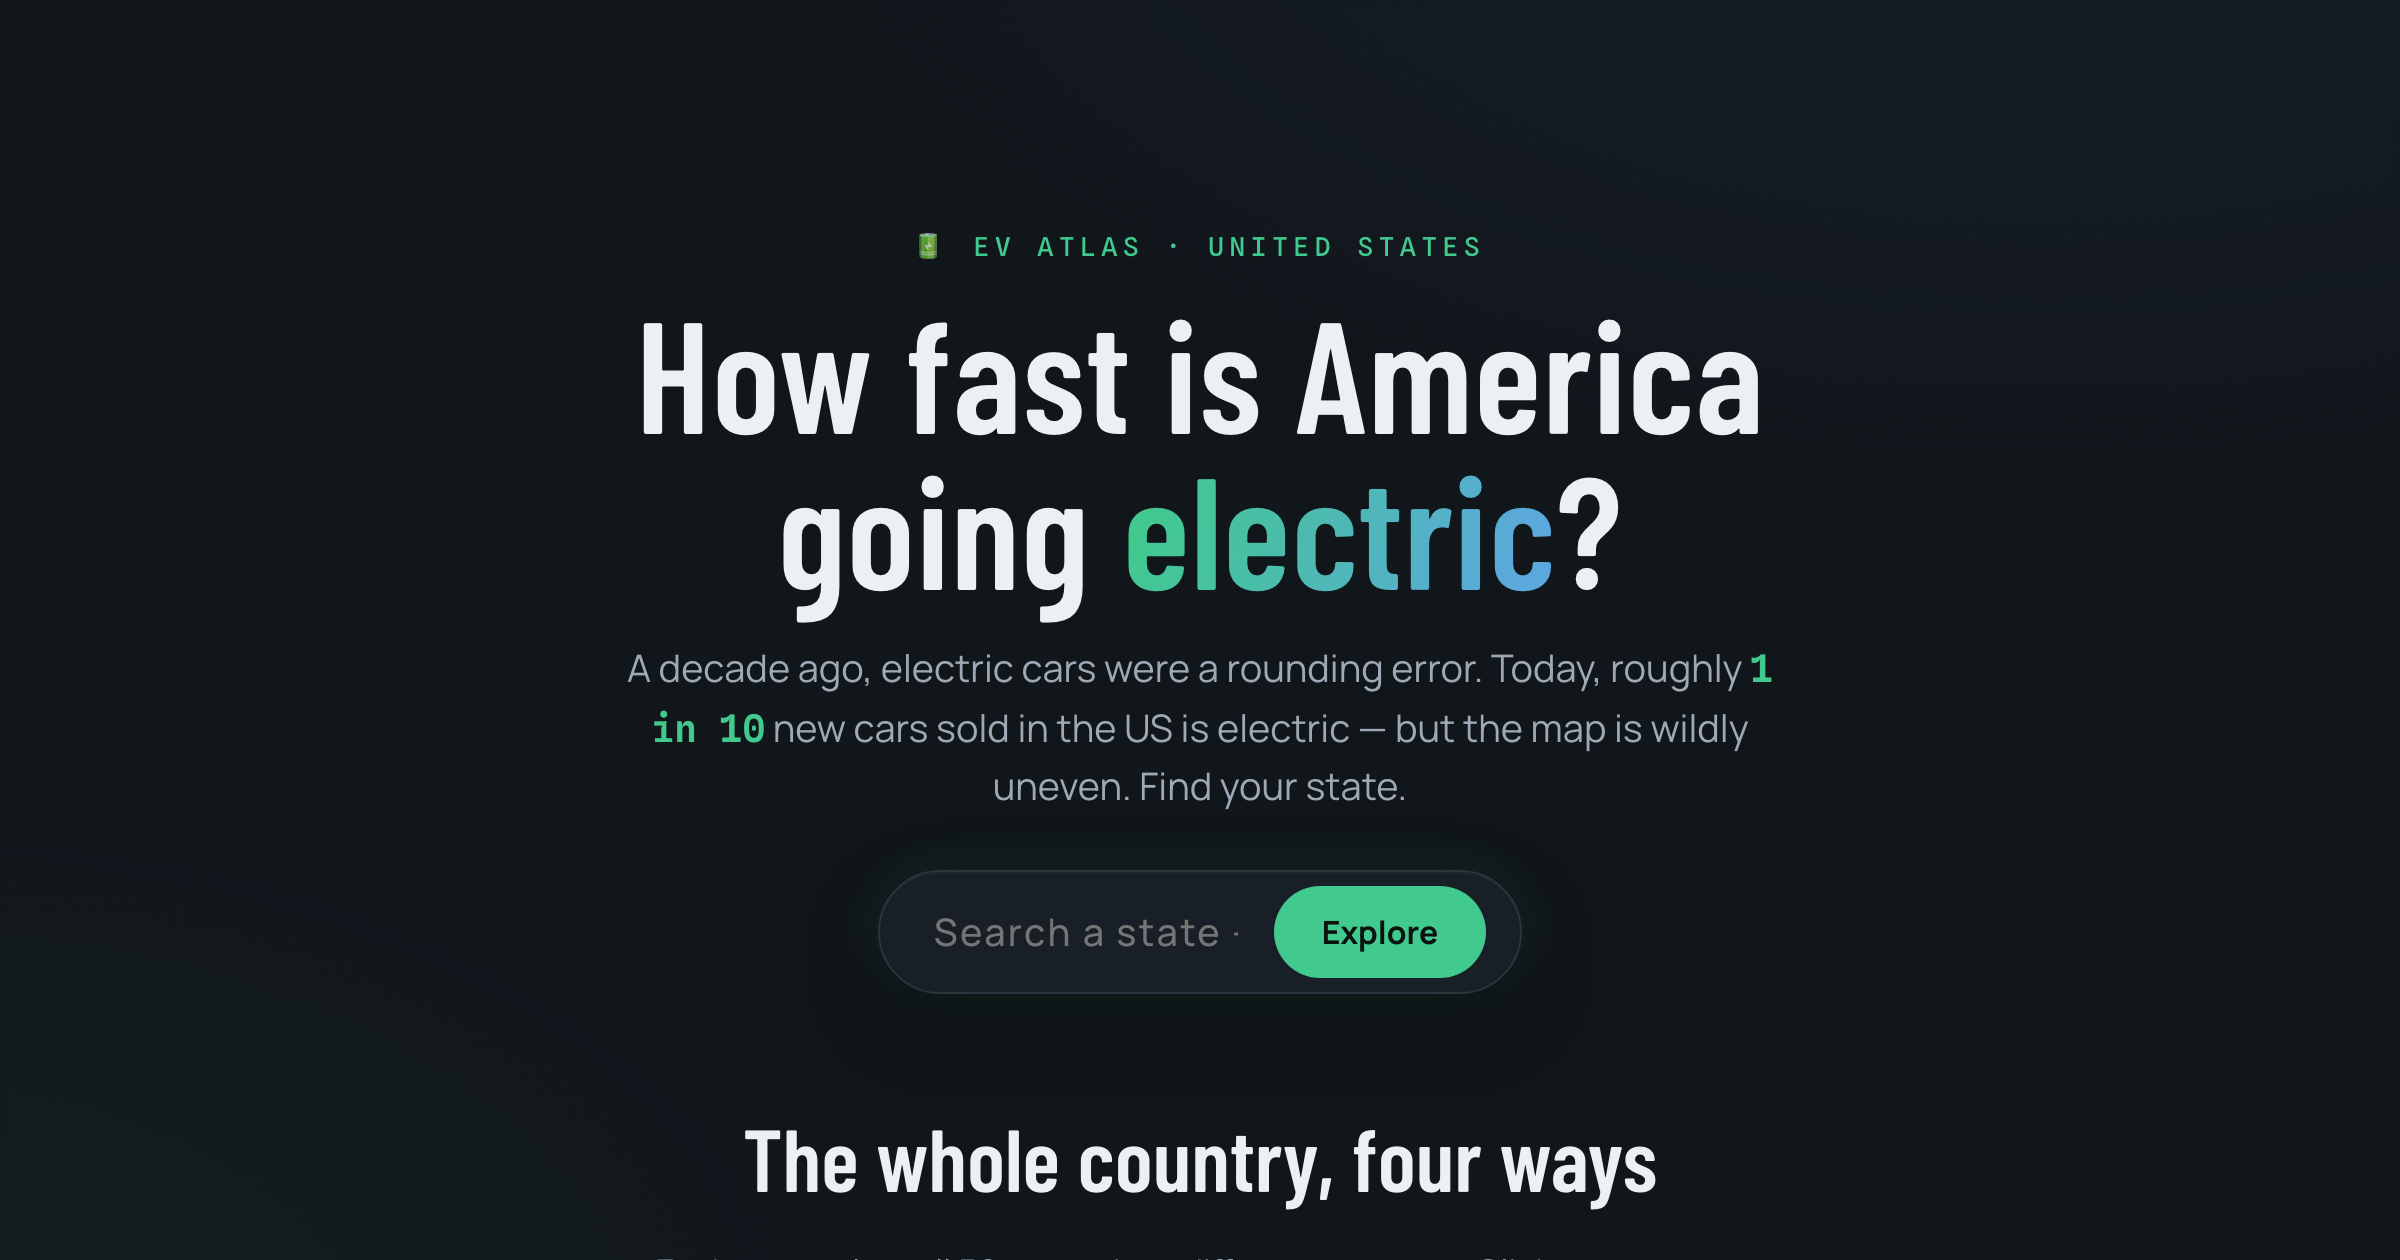
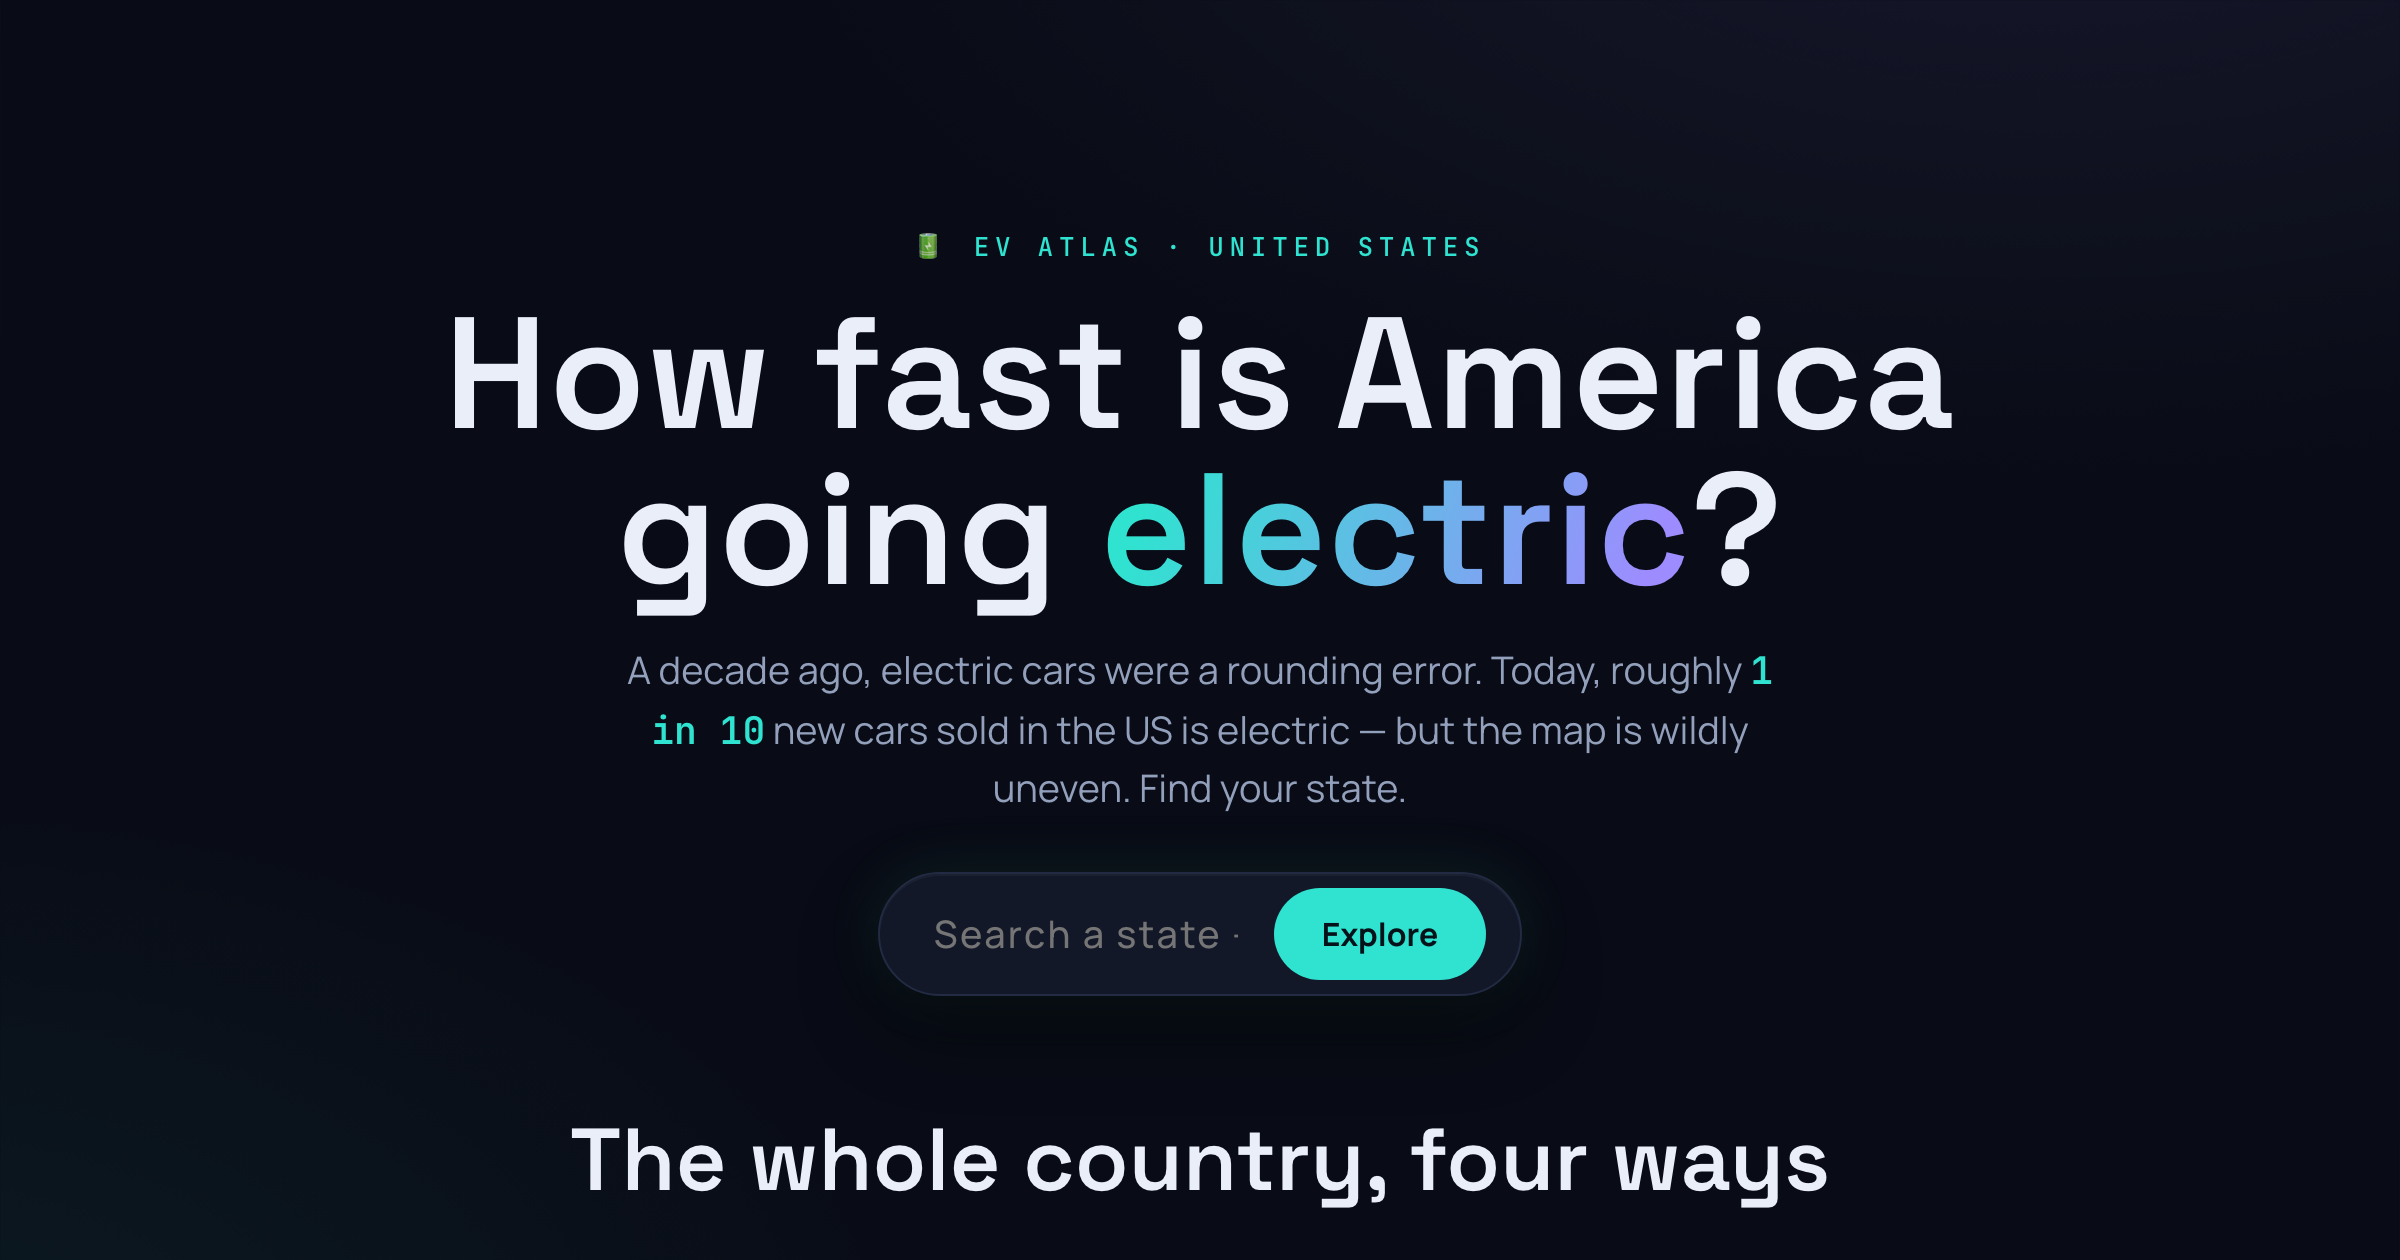
Fix map border-mesh fill (black wedges), align panel cards, distinct Voltage identity
- Maps: the internal-borders mesh was filling instead of stroking (renamed
  .state->.geo lost the CSS) — add .geo/.geo-borders styles with fill:none.
- Panel cards: flex columns with uniform rhythm + kv-list, so each card leads
  with a big number on a shared baseline; restructured the cost card to match.
- New identity (distinct from Grid Atlas): midnight indigo-black + electric
  teal-cyan/violet palette, Space Grotesk display + JetBrains Mono data; metric
  ramps, hero gradient, timeline modern-era colors, and OG image updated.

diff --git a/css/base.css b/css/base.css
@@ -1,55 +1,59 @@
-/* ===== Grid Atlas — Evergreen instrument panel =====
-   Deep pine-black granite, slate-green surfaces, emerald + ocean accents.
-   Syne (display) · Manrope (body/UI) · Spline Sans Mono (data readouts) */
+/* ===== EV Atlas — Voltage =====
+   Midnight indigo-black, electric teal-cyan + violet accents, charged amber.
+   Space Grotesk (display) · Manrope (body/UI) · JetBrains Mono (data readouts) */
 
 :root {
-  --paper: #11161B;
-  --paper-deep: #171D23;
-  --card: #181F26;
-  --pop: #222B34;
-  --pop-ink: #EDF2F0;
-  --pop-ink-soft: #C6D2CC;
-  --pop-border: #36424C;
-  --pop-accent: #4FD49B;
-  --ink: #EBF0F4;
-  --ink-soft: #9DAAB5;
-  --rule: #2A343D;
-  --accent: #41C98E;
-  --accent2: #5BA8DC;
-  --on-accent: #0B1310;
-  --gold: #F2B23E;
-  --shadow: 0 1px 0 rgba(255, 255, 255, 0.03) inset, 0 14px 36px rgba(0, 0, 0, 0.35);
-  --map-nodata: #232C33;
-  --plant-fill: #1E262D;
-  --price-us: #8C99A3;
-  --price-state: #5BA8DC;
-  --topbar-bg: rgba(13, 18, 23, 0.88);
-  --pulse: #243039;
-  --num-glow: 0 0 26px rgba(65, 201, 142, 0.18);
-  --font-display: "Barlow Condensed", "Avenir Next Condensed", sans-serif;
+  --paper: #090C16;
+  --paper-deep: #0E1220;
+  --card: #131829;
+  --pop: #1B2236;
+  --pop-ink: #EAEEF8;
+  --pop-ink-soft: #BCC6DC;
+  --pop-border: #2C3550;
+  --pop-accent: #3DE3D4;
+  --ink: #EAEEF8;
+  --ink-soft: #93A0BC;
+  --rule: #222B43;
+  --accent: #2FE3D0;
+  --accent2: #9D8CFF;
+  --on-accent: #06121A;
+  --gold: #F5B63F;
+  --shadow: 0 1px 0 rgba(255, 255, 255, 0.04) inset, 0 16px 40px rgba(0, 0, 0, 0.45);
+  --map-nodata: #1A2133;
+  --plant-fill: #161C2E;
+  --price-us: #8B95AE;
+  --price-state: #9D8CFF;
+  --topbar-bg: rgba(10, 13, 22, 0.86);
+  --pulse: #1C2540;
+  --num-glow: 0 0 26px rgba(47, 227, 208, 0.20);
+  --font-display: "Space Grotesk", "Avenir Next", sans-serif;
   --font-body: "Manrope", -apple-system, sans-serif;
   --font-ui: "Manrope", -apple-system, sans-serif;
-  --font-mono: "Spline Sans Mono", ui-monospace, monospace;
+  --font-mono: "JetBrains Mono", ui-monospace, monospace;
 }
 
 [data-theme="light"] {
-  --paper: #F1F3F2;
-  --paper-deep: #E6EAE8;
+  --paper: #F4F6FB;
+  --paper-deep: #E9EDF6;
   --card: #FFFFFF;
-  --ink: #1C2630;
-  --ink-soft: #58656F;
-  --rule: #D9DEDC;
-  --accent: #178F5F;
-  --accent2: #2E7CB5;
+  --pop: #FFFFFF;
+  --pop-ink: #1A2238;
+  --pop-ink-soft: #4A5773;
+  --pop-border: #D5DCEC;
+  --ink: #182036;
+  --ink-soft: #56627E;
+  --rule: #DEE4F0;
+  --accent: #0E9E91;
+  --accent2: #6D55E0;
   --on-accent: #FFFFFF;
-  --gold: #B97E1F;
-  --shadow: 0 1px 2px rgba(20, 30, 40, 0.06), 0 10px 28px rgba(20, 30, 40, 0.10);
-  --map-nodata: #DCE2DF;
-  --plant-fill: #E8EDEA;
-  --price-us: #7C8891;
-  --price-state: #2E7CB5;
-  --topbar-bg: rgba(245, 247, 246, 0.9);
-  --pulse: #E9DECA; /* warm parchment — the light pulse dips warm, not gray */
+  --gold: #B5791A;
+  --shadow: 0 1px 2px rgba(20, 26, 45, 0.06), 0 10px 28px rgba(20, 26, 45, 0.10);
+  --map-nodata: #DEE3EF;
+  --plant-fill: #E8ECF5;
+  --price-us: #7A8499;
+  --price-state: #6D55E0;
+  --topbar-bg: rgba(244, 246, 251, 0.9);
+  --pulse: #DDE6F7; /* cool electric haze on the light pulse */
   --num-glow: none;
 }
 
@@ -59,8 +63,8 @@ html { scroll-behavior: smooth; }
 body {
   margin: 0;
   background:
-    radial-gradient(1100px 600px at 85% -5%, rgba(86, 168, 220, 0.07), transparent 60%),
-    radial-gradient(950px 550px at -5% 30%, rgba(65, 201, 142, 0.05), transparent 55%),
+    radial-gradient(1100px 600px at 85% -5%, rgba(157, 140, 255, 0.10), transparent 60%),
+    radial-gradient(950px 550px at -5% 30%, rgba(47, 227, 208, 0.07), transparent 55%),
     var(--paper);
   color: var(--ink);
   font-family: var(--font-body);
@@ -72,8 +76,8 @@ body {
 
 [data-theme="light"] body {
   background:
-    radial-gradient(1100px 600px at 85% -5%, rgba(46, 124, 181, 0.06), transparent 60%),
-    radial-gradient(950px 550px at -5% 30%, rgba(23, 143, 95, 0.04), transparent 55%),
+    radial-gradient(1100px 600px at 85% -5%, rgba(109, 85, 224, 0.07), transparent 60%),
+    radial-gradient(950px 550px at -5% 30%, rgba(14, 158, 145, 0.05), transparent 55%),
     var(--paper);
 }
 

diff --git a/css/evatlas.css b/css/evatlas.css
@@ -61,7 +61,7 @@
   position: absolute; top: 0; bottom: 0; left: 50%; width: 3px;
   transform: translateX(-50%);
   background: linear-gradient(180deg,
-    #C9A24B 0%, #C77B43 16%, #6E7B86 38%, #5BA8DC 64%, #41C98E 84%, #3EE0A0 100%);
+    #C9A24B 0%, #C77B43 16%, #6E7B86 38%, #5BA8DC 62%, #2FE3D0 84%, #48EFE0 100%);
   border-radius: 3px; opacity: 0.55;
 }
 
@@ -118,11 +118,11 @@
 .tl-node[data-era="gas"], .tl-era[data-era="gas"] { --era: #C77B43; }
 .tl-node[data-era="darkage"], .tl-era[data-era="darkage"] { --era: #828F9A; }
 .tl-node[data-era="revival"], .tl-era[data-era="revival"] { --era: #5BA8DC; }
-.tl-node[data-era="tesla"], .tl-era[data-era="tesla"] { --era: #41C98E; }
-.tl-node[data-era="mainstream"], .tl-era[data-era="mainstream"] { --era: #3EE0A0; }
+.tl-node[data-era="tesla"], .tl-era[data-era="tesla"] { --era: #2FE3D0; }
+.tl-node[data-era="mainstream"], .tl-era[data-era="mainstream"] { --era: #48EFE0; }
 .tl-ticker[data-era="dawn"] { --era: #C9A24B; } .tl-ticker[data-era="gas"] { --era: #C77B43; }
 .tl-ticker[data-era="darkage"] { --era: #828F9A; } .tl-ticker[data-era="revival"] { --era: #5BA8DC; }
-.tl-ticker[data-era="tesla"] { --era: #41C98E; } .tl-ticker[data-era="mainstream"] { --era: #3EE0A0; }
+.tl-ticker[data-era="tesla"] { --era: #2FE3D0; } .tl-ticker[data-era="mainstream"] { --era: #48EFE0; }
 
 /* mobile: spine slides left, every node on the right */
 @media (max-width: 720px) {
@@ -175,30 +175,47 @@
 .tc-axis { font-family: var(--font-mono); font-size: 11px; fill: var(--ink-soft); }
 .tc-annot { font-family: var(--font-mono); font-size: 12.5px; font-weight: 600; }
 
-/* ---------- region/country detail panel ---------- */
-.ev-grid { display: grid; grid-template-columns: repeat(auto-fit, minmax(250px, 1fr)); gap: 18px; margin-top: 4px; }
+/* ---------- region/country detail panel ----------
+   Cards are flex columns with a uniform gap so every card shares the same
+   vertical rhythm: heading → big number → pill → detail list line up across the row. */
+.ev-grid { display: grid; grid-template-columns: repeat(auto-fit, minmax(250px, 1fr)); gap: 18px; margin-top: 4px; align-items: stretch; }
+.ev-grid .card { display: flex; flex-direction: column; gap: 12px; }
+.ev-grid .card > h3 { margin: 0; }
 .ev-grid .card.wide { grid-column: 1 / -1; }
-.big-stat { display: flex; align-items: baseline; gap: 10px; margin: 2px 0 6px; }
+
+.big-stat { display: flex; align-items: baseline; gap: 10px; margin: 0; min-height: 52px; }
 .big-stat .num {
   font-family: var(--font-mono); font-weight: 600; line-height: 1;
-  font-size: clamp(40px, 5vw, 60px); letter-spacing: -0.02em; color: var(--accent);
+  font-size: clamp(38px, 4.6vw, 56px); letter-spacing: -0.02em; color: var(--accent);
   text-shadow: var(--num-glow);
 }
-.big-stat .unit { font-family: var(--font-ui); font-size: 14px; color: var(--ink-soft); line-height: 1.3; }
+.big-stat .unit { font-family: var(--font-ui); font-size: 13.5px; color: var(--ink-soft); line-height: 1.3; }
 .rank-pill {
   font-family: var(--font-mono); font-size: 12px; font-weight: 600; color: var(--ink-soft);
   background: var(--paper-deep); border: 1px solid var(--rule); border-radius: 999px; padding: 3px 10px;
-  display: inline-block; margin-top: 4px;
+  align-self: flex-start;
 }
-.kv { display: flex; justify-content: space-between; gap: 12px; padding: 7px 0; border-bottom: 1px solid var(--rule); font-size: 15px; }
-.kv:last-child { border-bottom: 0; }
+.kv-list { display: flex; flex-direction: column; }
+.kv { display: flex; justify-content: space-between; gap: 12px; padding: 8px 0; border-top: 1px solid var(--rule); font-size: 15px; }
 .kv .k { color: var(--ink-soft); }
 .kv .v { font-family: var(--font-mono); font-weight: 600; }
-.card .card-lead { font-size: 16px; color: var(--ink-soft); margin: 0 0 10px; }
-.charge-compare { display: flex; gap: 12px; margin-top: 8px; }
-.charge-compare .cc { flex: 1; text-align: center; background: var(--paper-deep); border-radius: 10px; padding: 12px; }
-.charge-compare .cc .amt { font-family: var(--font-mono); font-weight: 600; font-size: 26px; }
+.card .card-lead { font-size: 15.5px; color: var(--ink-soft); margin: 0; }
+.charge-compare { display: flex; gap: 12px; }
+.charge-compare .cc { flex: 1; text-align: center; background: var(--paper-deep); border-radius: 10px; padding: 12px 10px; }
+.charge-compare .cc .amt { font-family: var(--font-mono); font-weight: 600; font-size: 24px; }
 .charge-compare .cc.ev .amt { color: var(--accent); }
 .charge-compare .cc.gas .amt { color: var(--gold); }
 .charge-compare .cc .lbl { font-size: 12px; color: var(--ink-soft); margin-top: 2px; }
 .est-flag { font-size: 12px; color: var(--ink-soft); opacity: 0.8; font-style: italic; }
+
+/* ---------- choropleth maps (borders must STROKE not fill — else black wedges) ---------- */
+.choropleth-svg { display: block; }
+.geo { cursor: pointer; stroke: none; transition: opacity 0.15s ease; }
+.geo:hover { opacity: 0.82; }
+.geo.selected { stroke: var(--ink); stroke-width: 1.5; }
+.geo-borders { fill: none; stroke: var(--paper); stroke-width: 0.7; pointer-events: none; }
+.geo.flash { animation: geo-flash 1s ease-out; }
+@keyframes geo-flash {
+  0%, 25% { filter: drop-shadow(0 0 9px rgba(120, 240, 230, 0.65)); }
+  100% { filter: drop-shadow(0 0 0 rgba(120, 240, 230, 0)); }
+}

diff --git a/js/us-view.js b/js/us-view.js
@@ -99,32 +99,35 @@ function renderPanel(ab) {
       <div class="card">
         <h3>Going electric</h3>
         <div class="big-stat"><span class="num">${s.share}%</span><span class="unit">of new cars<br>are electric</span></div>
-        <span class="rank-pill">${ord(s.shareRank)} of ${meta.count}</span>
-        ${s.shareEstimated ? '<p class="est-flag">estimated from state-level reporting</p>' : '<p class="est-flag">confirmed by industry data</p>'}
-        <div class="kv"><span class="k">EVs on the road</span><span class="v">${s.evStock.toLocaleString()}</span></div>
-        <div class="kv"><span class="k">per 1,000 people</span><span class="v">${s.evPer1k}</span></div>
-        ${s.topModel ? `<div class="kv"><span class="k">most popular</span><span class="v">${s.topModel}</span></div>` : ""}
+        <span class="rank-pill">${ord(s.shareRank)} of ${meta.count} states</span>
+        ${s.shareEstimated ? '<p class="est-flag">estimated from state-level reporting</p>' : ""}
+        <div class="kv-list">
+          <div class="kv"><span class="k">EVs on the road</span><span class="v">${s.evStock.toLocaleString()}</span></div>
+          <div class="kv"><span class="k">per 1,000 people</span><span class="v">${s.evPer1k}</span></div>
+          ${s.topModel ? `<div class="kv"><span class="k">most popular</span><span class="v">${s.topModel}</span></div>` : ""}
+        </div>
       </div>
 
       <div class="card">
         <h3>Plugging in</h3>
         <div class="big-stat"><span class="num">${s.ports.toLocaleString()}</span><span class="unit">public<br>charging ports</span></div>
         <span class="rank-pill">${ord(s.portsPer100kRank)} per capita</span>
-        <div class="kv"><span class="k">ports per 100k people</span><span class="v">${s.portsPer100k}</span></div>
-        <p class="card-lead" style="margin-top:10px">More plugs make the switch easier — and the map of where they are is just as uneven as adoption itself.</p>
+        <div class="kv-list">
+          <div class="kv"><span class="k">ports per 100k people</span><span class="v">${s.portsPer100k}</span></div>
+          <div class="kv"><span class="k">EVs per public port</span><span class="v">${Math.round(s.evStock / s.ports)}</span></div>
+        </div>
       </div>
 
       <div class="card">
         <h3>What it costs to drive</h3>
-        <p class="card-lead">Charging at home vs. filling up, per 100 miles.
-          <button class="info-btn" data-info="charge" aria-label="assumptions">i</button></p>
+        ${evCost < gasCost
+          ? `<div class="big-stat"><span class="num">${Math.round((1 - evCost / gasCost) * 100)}%</span><span class="unit">cheaper to drive<br>on electricity</span></div>`
+          : `<div class="big-stat"><span class="num">$${evCost.toFixed(2)}</span><span class="unit">to drive 100 mi<br>on electricity</span></div>`}
+        <span class="rank-pill">per 100 miles <button type="button" class="info-btn" data-info="charge" aria-label="assumptions">i</button></span>
         <div class="charge-compare">
           <div class="cc ev"><div class="amt">$${evCost.toFixed(2)}</div><div class="lbl">electric · ${s.resPrice}¢/kWh</div></div>
           <div class="cc gas"><div class="amt">$${gasCost.toFixed(2)}</div><div class="lbl">gasoline · $${GAS}/gal</div></div>
         </div>
-        <p class="card-lead" style="margin-top:10px">${evCost < gasCost
-          ? `Driving electric here costs about <strong>${Math.round((1 - evCost / gasCost) * 100)}% less</strong> to drive.`
-          : `Electricity is pricey here — the fuel savings are slim.`}</p>
       </div>
 
       <div class="card wide">

diff --git a/js/colors.js b/js/colors.js
@@ -9,19 +9,19 @@ const d3 = window.d3;
 
 // [lo, hi] endpoints per metric.
 const RAMPS = {
-  share:    ["#1E2A33", "#2FE0A0"], // EV share of new cars — electric mint-green
-  percap:   ["#1B2A38", "#5BA8DC"], // EVs per 1,000 people — ocean blue
-  charging: ["#2A2620", "#F2B23E"], // charging ports per capita — gold
-  clean:    ["#232C33", "#3ECF8E"], // grid cleanliness — Grid Atlas green (shared)
-  growth:   ["#211E33", "#A78BFA"], // YoY growth — violet (momentum)
-  lowcarbon:["#232C33", "#3ECF8E"], // world grid low-carbon % — same green as clean
+  share:    ["#0E2230", "#2FE3D0"], // EV share of new cars — electric teal-cyan (brand)
+  percap:   ["#1A1B33", "#9D8CFF"], // EVs per 1,000 people — electric violet
+  charging: ["#2A2620", "#F5B63F"], // charging ports per capita — charged amber
+  clean:    ["#142621", "#39D98E"], // grid cleanliness — green (Grid Atlas cross-link)
+  growth:   ["#1B1A33", "#9D8CFF"], // YoY growth — violet (momentum)
+  lowcarbon:["#142621", "#39D98E"], // world grid low-carbon % — same green as clean
 };
 
 // "growth" is the YoY change in EV share (percentage points) and CAN be negative
 // (Germany, Iceland, etc. fell in 2024). It gets a DIVERGING ramp centered on 0 so
 // declines read differently from flat — a single-hue ramp would paint them alike.
-const GROWTH_NEG = ["#D06A4A", "#39424B"]; // -8pp (amber-red) → 0 (neutral)
-const GROWTH_POS = ["#39424B", "#A78BFA"]; // 0 (neutral) → +12pp (violet)
+const GROWTH_NEG = ["#D06A4A", "#2A3350"]; // -8pp (amber-red) → 0 (neutral indigo)
+const GROWTH_POS = ["#2A3350", "#9D8CFF"]; // 0 (neutral indigo) → +12pp (violet)
 
 // Build a value→color function. `max` sets the top of the ramp (each map
 // normalizes to its own domain).

diff --git a/js/world-view.js b/js/world-view.js
@@ -118,15 +118,17 @@ function selectCountry(a3, scroll) {
       </div>
       <div class="card">
         <h3>On the road</h3>
-        ${c.stock != null ? `<div class="big-stat"><span class="num">${(c.stock / 1e6 >= 1 ? (c.stock / 1e6).toFixed(1) + "M" : (c.stock / 1e3).toFixed(0) + "k")}</span><span class="unit">electric cars<br>in the fleet</span></div>` : '<p class="card-lead">—</p>'}
-        ${c.stockPer1k != null ? `<div class="kv"><span class="k">per 1,000 people</span><span class="v">${c.stockPer1k}</span></div>` : ""}
-        ${c.salesLatest != null ? `<div class="kv"><span class="k">sold in 2024</span><span class="v">${c.salesLatest.toLocaleString()}</span></div>` : ""}
+        ${c.stock != null ? `<div class="big-stat"><span class="num">${(c.stock / 1e6 >= 1 ? (c.stock / 1e6).toFixed(1) + "M" : (c.stock / 1e3).toFixed(0) + "k")}</span><span class="unit">electric cars<br>in the fleet</span></div>` : '<p class="card-lead">No fleet data available.</p>'}
+        <div class="kv-list">
+          ${c.stockPer1k != null ? `<div class="kv"><span class="k">per 1,000 people</span><span class="v">${c.stockPer1k}</span></div>` : ""}
+          ${c.salesLatest != null ? `<div class="kv"><span class="k">sold in 2024</span><span class="v">${c.salesLatest.toLocaleString()}</span></div>` : ""}
+        </div>
       </div>
       <div class="card">
         <h3>How clean is the grid?</h3>
         ${c.lowCarbon != null
           ? `<div class="big-stat"><span class="num">${c.lowCarbon}%</span><span class="unit">low-carbon<br>electricity</span></div>
-             <p class="card-lead" style="margin-top:8px">An EV charged in ${c.name} runs on power that's <strong>${cleanPhrase(c.lowCarbon)}</strong>.</p>`
+             <p class="card-lead">An EV charged in ${c.name} runs on power that's <strong>${cleanPhrase(c.lowCarbon)}</strong>.</p>`
           : '<p class="card-lead">No grid data available.</p>'}
       </div>
     </div>`;

diff --git a/index.html b/index.html
@@ -17,8 +17,8 @@
 <meta name="twitter:image" content="https://maninae.github.io/ev-atlas/assets/og.png">
 <link rel="preconnect" href="https://fonts.googleapis.com">
 <link rel="preconnect" href="https://fonts.gstatic.com" crossorigin>
-<link href="https://fonts.googleapis.com/css2?family=Barlow+Condensed:wght@500;600;700&family=Manrope:wght@400;500;600;700&family=Spline+Sans+Mono:wght@400;500;600&display=swap" rel="stylesheet">
-<meta name="theme-color" content="#11161B">
+<link href="https://fonts.googleapis.com/css2?family=Space+Grotesk:wght@500;600;700&family=Manrope:wght@400;500;600;700&family=JetBrains+Mono:wght@400;500;600&display=swap" rel="stylesheet">
+<meta name="theme-color" content="#090C16">
 <script>
 (function () {
   var t = localStorage.getItem("eva-theme");